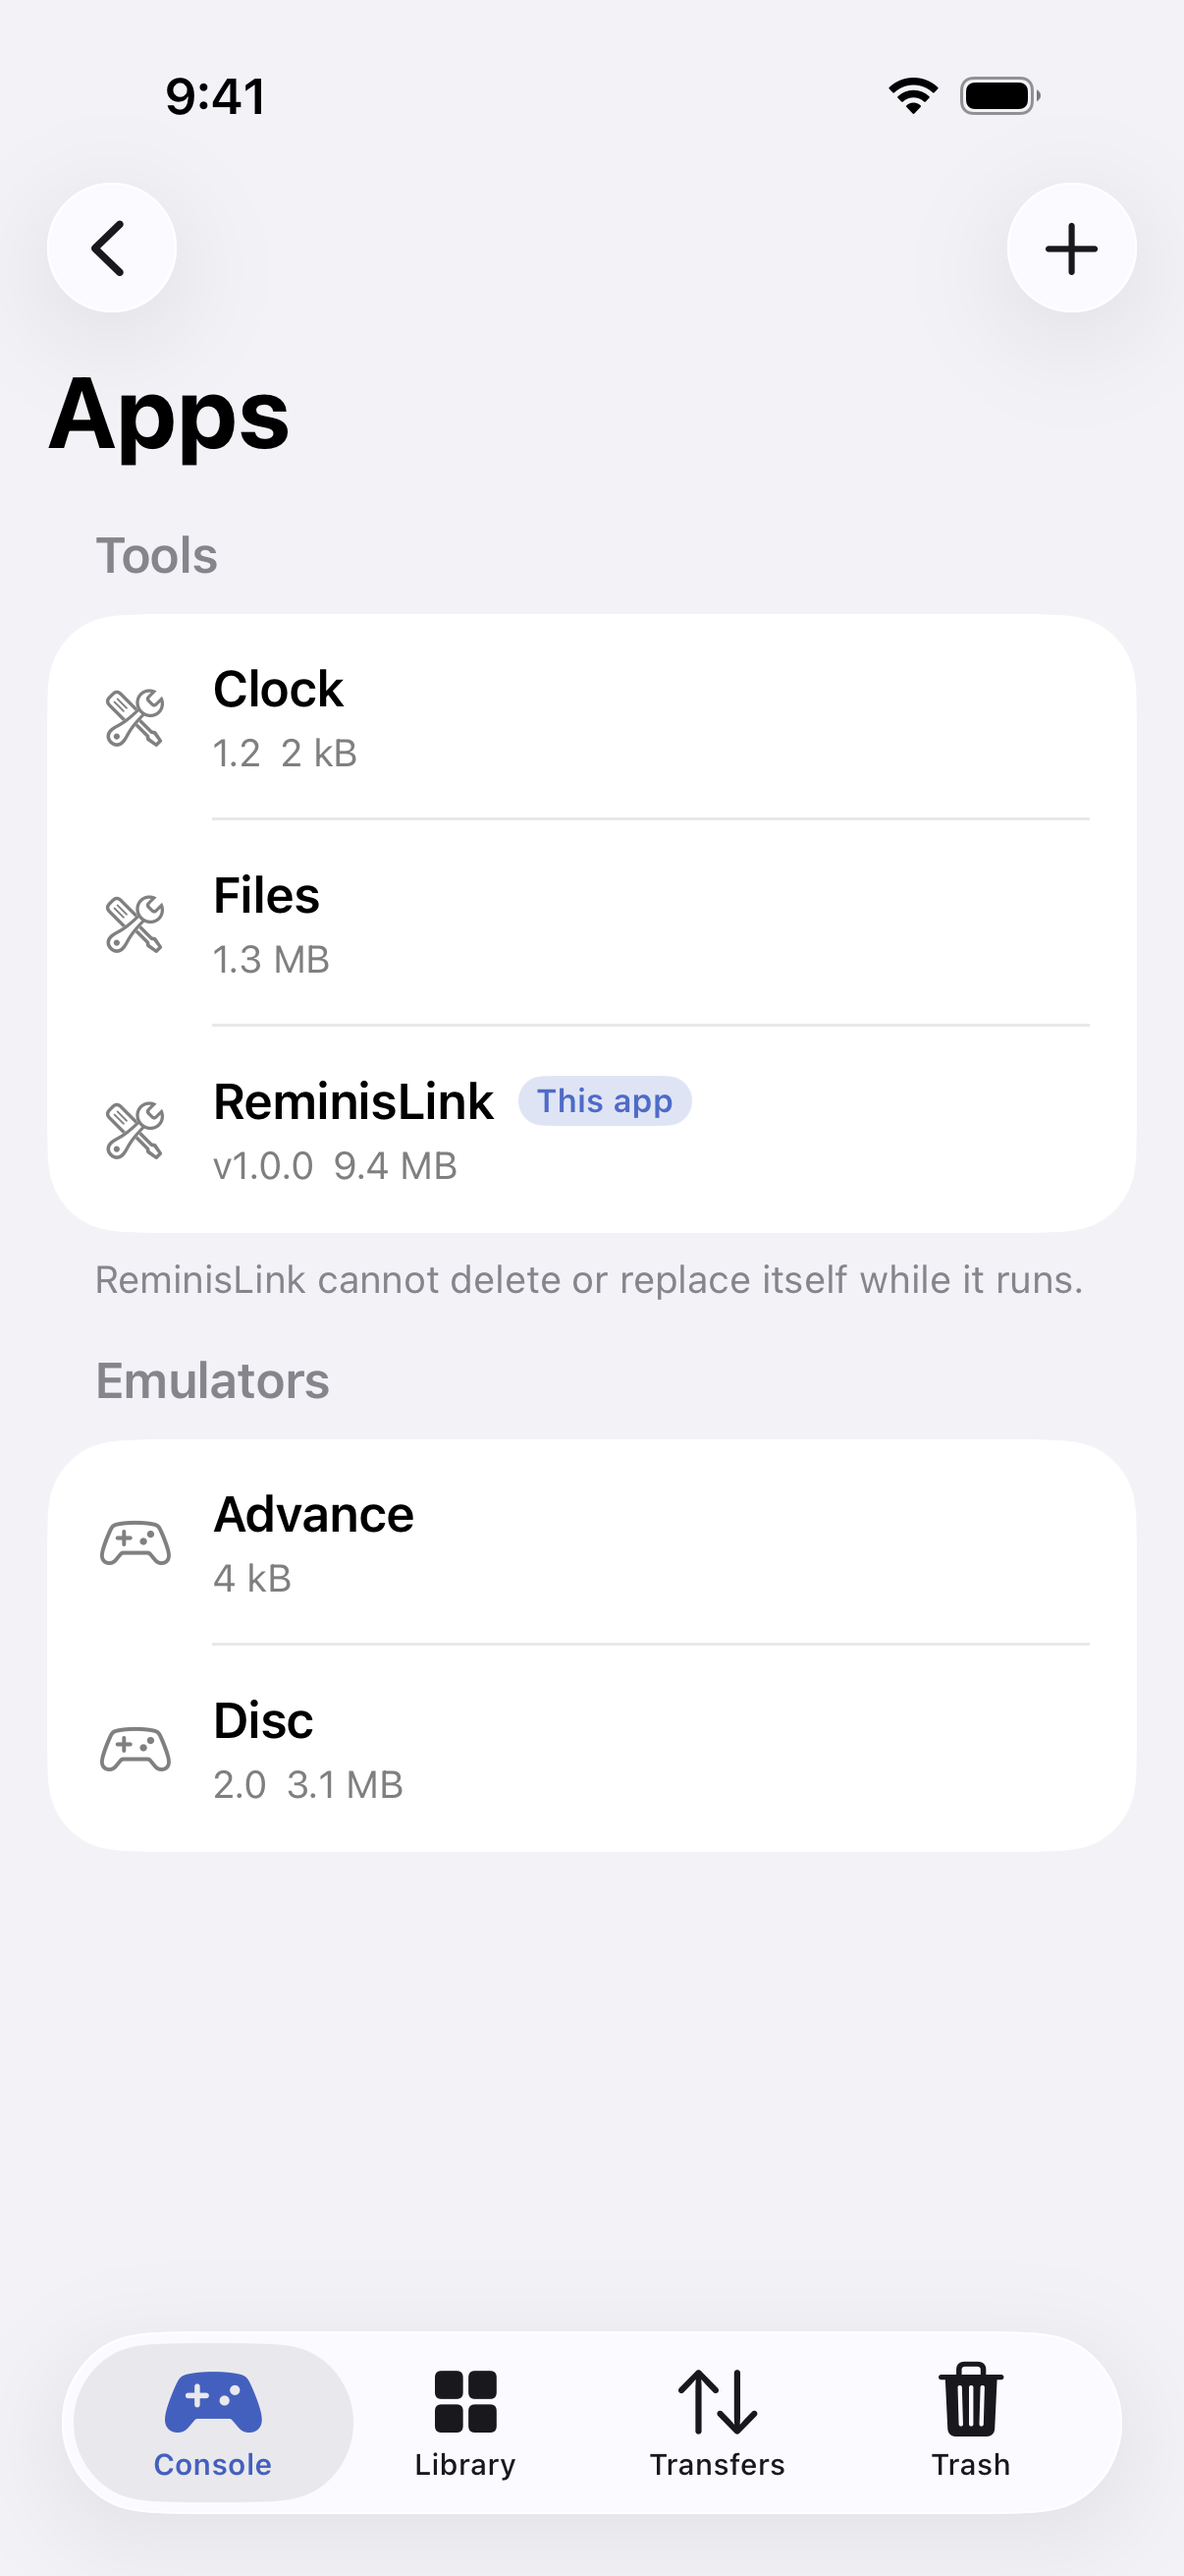
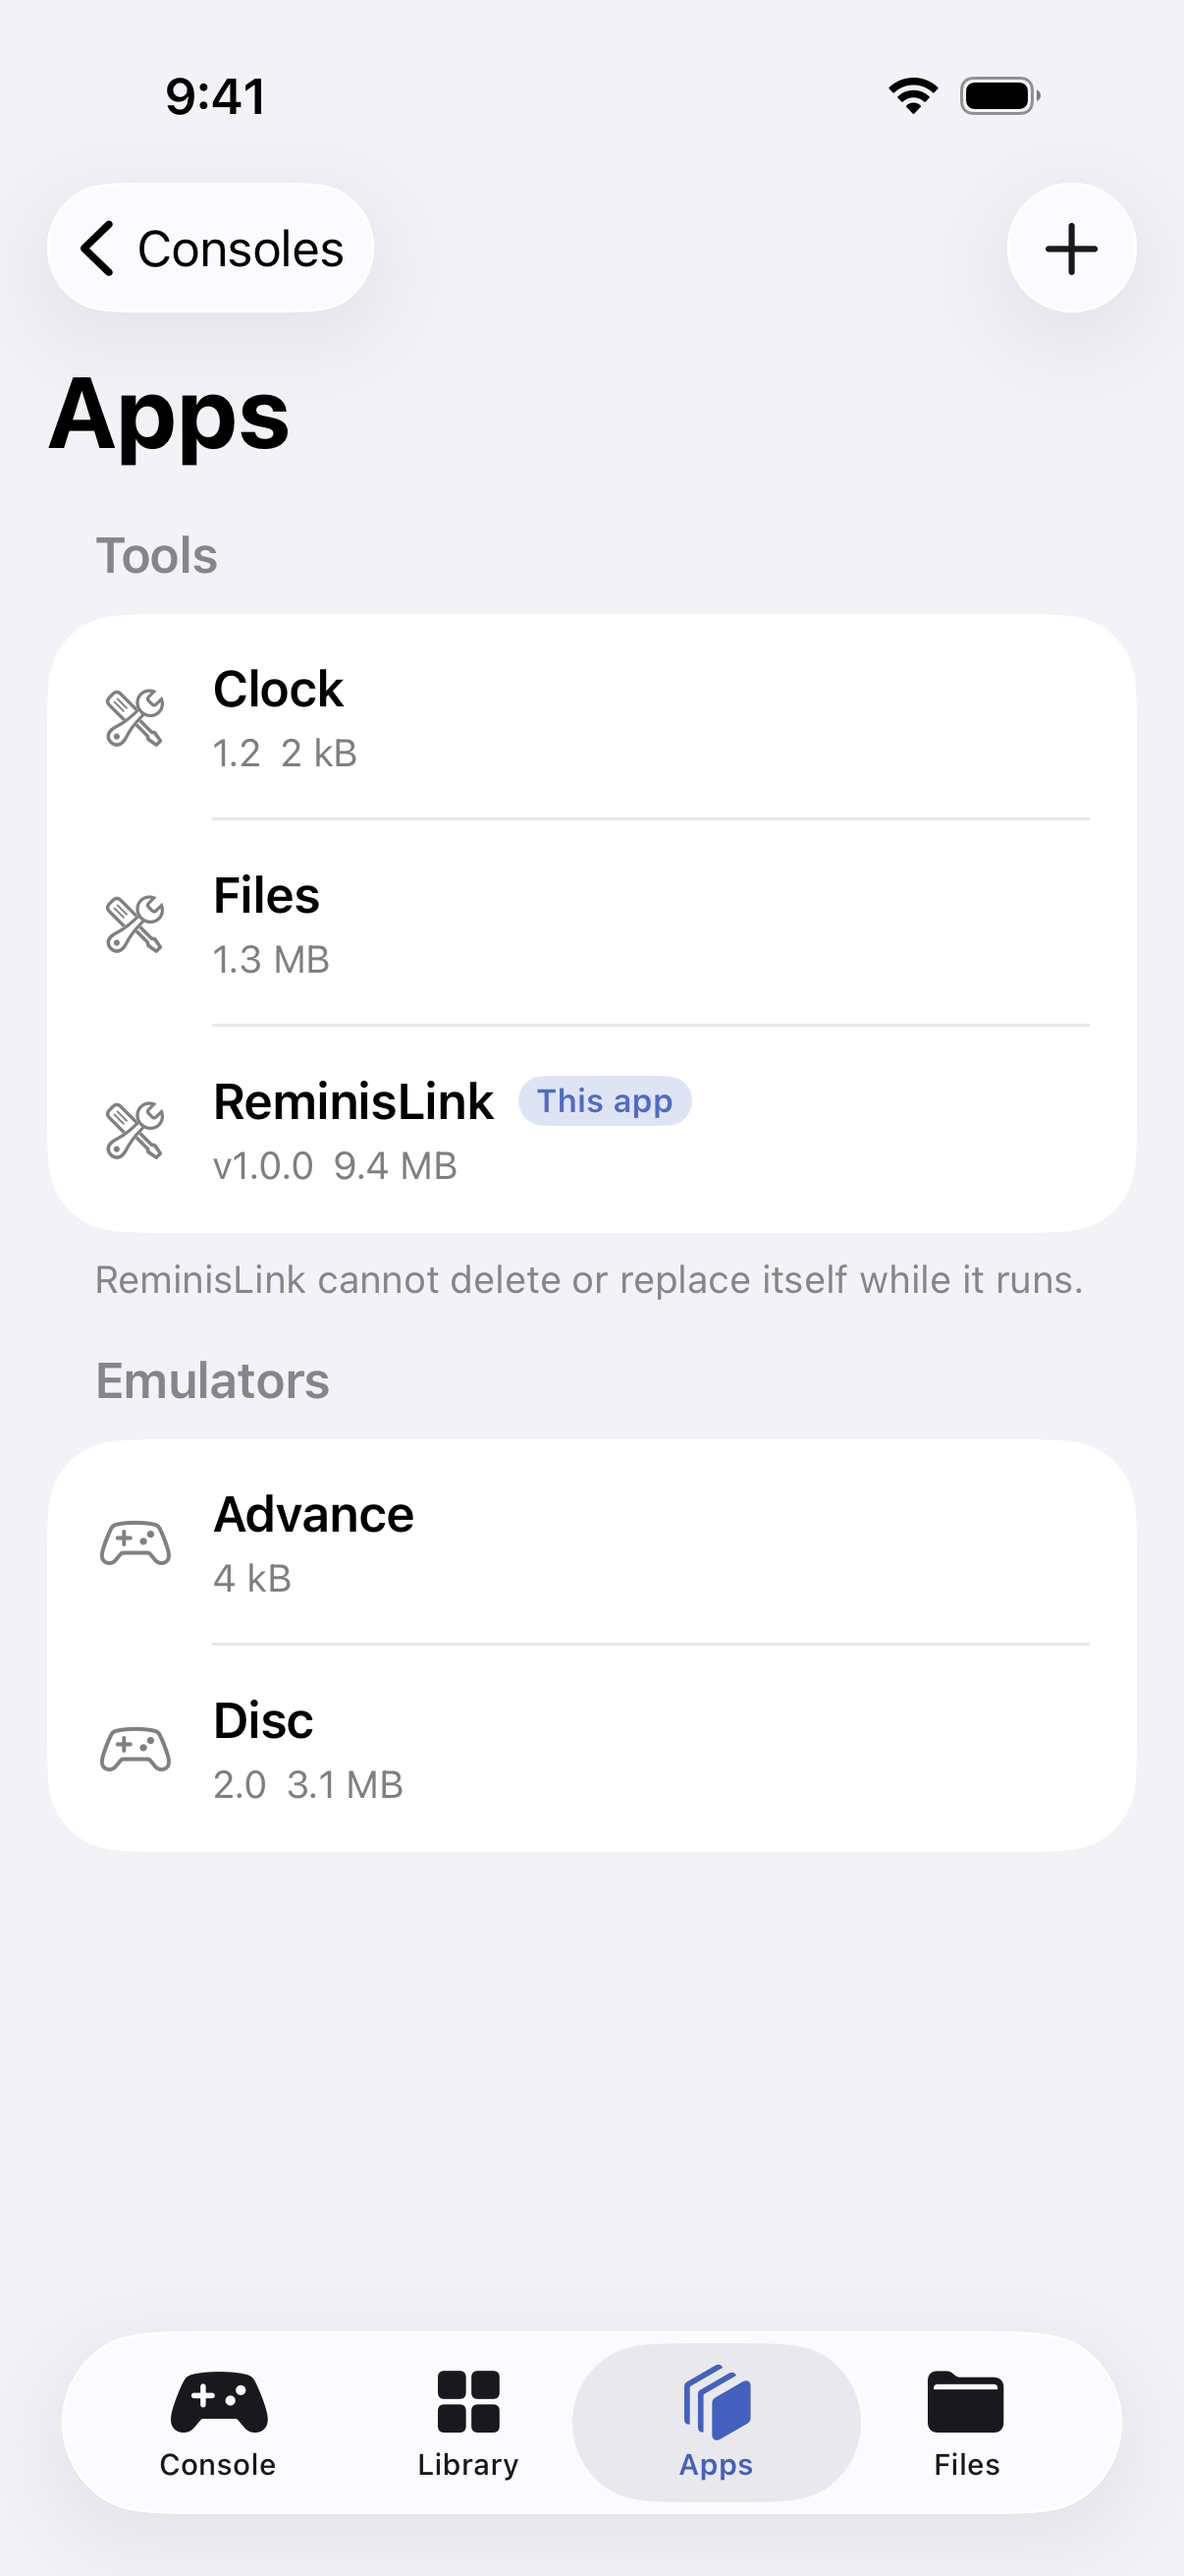
App Store screenshots: regenerate with the M23 tab bar
The screenshot test went back from the Apps tab with a Back button that
no longer exists (Apps is a tab since M23): it now opens the Console tab
to reach the Consoles button, and waits for the Apps navigation bar.
All three series (6.9", 6.3", iPad 13") retaken in English and French;
6-consoles is unchanged.

diff --git a/ios/ReminisLinkUITests/AppStoreScreenshotsUITests.swift b/ios/ReminisLinkUITests/AppStoreScreenshotsUITests.swift
@@ -55,12 +55,13 @@ final class AppStoreScreenshotsUITests: XCTestCase {
 
         // 5. The apps of the console.
         app.consoleTabs["Apps"].tapWhenEnabled(timeout: 10)
-        XCTAssertTrue(app.navigationBars.element(boundBy: 0).waitForExistence(timeout: 10))
+        XCTAssertTrue(app.navigationBars["Apps"].waitForExistence(timeout: 10))
         settle(3)
         shoot(app, "5-apps")
 
-        // 6. The list of consoles.
-        app.goBack()
+        // 6. The list of consoles: its button is on the first screen of
+        // the Console tab (M23: Apps is a tab, with no Back button).
+        app.consoleTabs["Console"].tapWhenEnabled(timeout: 10)
         app.buttons["tab.consoles"].tapAfterWaiting()
         XCTAssertTrue(app.buttons["console.\(PairingUITests.demoDeviceId)"].waitForExistence(timeout: 10)
             || app.staticTexts[language == "fr" ? "Console de démo" : "Demo Handheld"].waitForExistence(timeout: 10))
